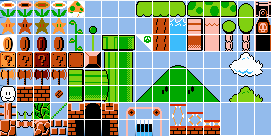
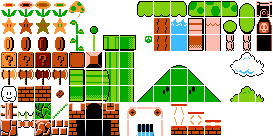
mario update

diff --git a/js/mario.js b/js/mario.js
@@ -9,14 +9,6 @@ kaboom({
 
 // load assets
 loadRoot("./");
-loadSprite("guy", "images/guy.png");
-loadSprite("spike", "images/spike.png");
-loadSprite("steel", "images/steel.png");
-loadSprite("prize", "images/big.png");
-loadSprite("jumpy", "images/jumpy.png");
-loadSprite("apple", "images/apple.png");
-loadSprite("coin", "images/coin1.png");
-loadSprite("grass", "images/grass.png");
 loadSprite("tiles", "images/mario.png", {
 	sliceX: 16,
 	sliceY: 8,
@@ -28,6 +20,32 @@ loadSprite("tiles", "images/mario.png", {
 		idle: {
 			from: 2,
 			to: 2,
+		},
+	},
+});
+loadSprite("player1a", "images/player1a.png", {
+	sliceX: 3,
+	anims: {
+		move: {
+			from: 0,
+			to: 2,
+		},
+		idle: {
+			from: 0,
+			to: 0,
+		},
+	},
+});
+loadSprite("player1b", "images/player1b.png", {
+	sliceX: 3,
+	anims: {
+		move: {
+			from: 0,
+			to: 2,
+		},
+		idle: {
+			from: 0,
+			to: 0,
 		},
 	},
 });
@@ -80,6 +98,7 @@ scene("main", () => {
 		],
 		"#": [
 			sprite("tiles",{frame:4}),
+			body(),
 			"apple",
 		],
 	});
@@ -125,8 +144,9 @@ scene("main", () => {
 
 	// define player object
 	const player = add([
-		sprite("guy"),
-		pos(0, 0),
+		sprite("player1a"),
+		origin("center"),
+		pos(10, 0),
 		scale(1),
 		// makes it fall to gravity and jumpable
 		body(),
@@ -151,19 +171,29 @@ scene("main", () => {
 
 	// grow an apple if player's head bumps into an obj with "prize" tag
 	player.on("headbump", (obj) => {
-		if (obj.is("prize")) {
+		if (obj.frame==48) {
+			obj.frame=49;
 			level.spawn("#", obj.gridPos.sub(0, 1));
 		}
 	});
+
+	action("apple", function(p){
+		p.move(80,0)
+		if (p.pos.y >= FALL_DEATH) {
+			destroy(p)
+		}
+	})
 
 	// player grows big collides with an "apple" obj
 	player.collides("apple", (a) => {
 		destroy(a);
 		// as we defined in the big() component
-		player.biggify(3);
+		// player.biggify(3);
+		player.changeSprite("player1b");
 	});
 
-	player.collides("jumpy", (a) => {
+	player.collides("jumpy", (obj) => {
+		player.frame=1;
 		player.jump(JUMP_FORCE * 1.5);
 	});
 
@@ -177,16 +207,27 @@ scene("main", () => {
 	// jump with space
 	keyPress("up", () => {
 		// these 2 functions are provided by body() component
+		player.frame=1;
 		if (player.grounded()) {
 			player.jump(JUMP_FORCE);
 		}
 	});
 
 	keyDown("left", () => {
+		if (player.grounded()) {
+			var t = Math.round(time()*20)
+			player.frame=(t)%3;
+		}
+		player.scale.x=-1
 		player.move(-MOVE_SPEED, 0);
 	});
 
 	keyDown("right", () => {
+		if (player.grounded()) {
+			var t = Math.round(time()*20)
+			player.frame=(t)%3;
+		}
+		player.scale.x=1
 		player.move(MOVE_SPEED, 0);
 	});
 
@@ -194,7 +235,7 @@ scene("main", () => {
 
 scene("lose", ({ score }) => {
 	add([
-		text(score, 32),
+		text('Score: '+score, 32),
 		origin("center"),
 		pos(width() / 2, height() / 2),
 	]);

diff --git a/index.html b/index.html
@@ -29,14 +29,14 @@
     <script src="https://kaboomjs.com/pub/legacy/kbmsprite.js"></script>
     <script>
         var levelMap = `
-                  $$
-                  ==        
+                 $$
+                 ==        
          $$               
-                ==     
+               ==     
    ==%==                  
-             ==             $$
+            ==             $$
                   $$
-====================^    =    ^=====
+=====================^    =    ^=====
 `
     </script>
     <script>
